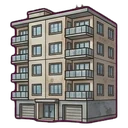
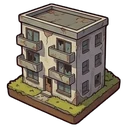
Icônes peintes des 25 lieux et des 3 maisons de départ

diff --git a/data.js b/data.js
@@ -10,7 +10,7 @@ function icone(id){ return typeof ICONES_SVG !== "undefined" && (ICONES_SVG[id] 
 // Pareil pour les membres de la famille (les recrues gardent leur emoji) et les zombies
 var ICONE_MEMBRE = { "Papa":"papa", "Maman":"maman", "Léo":"leo", "Emma":"emma", "Sam":"sam", "Nora":"nora", "Inès":"ines", "Yanis":"yanis" };
 // Icône dessinée k si elle existe, sinon l'emoji donné
-function ic(k, emoji){ if(typeof ICONES_SVG !== "undefined" && PORTRAITS_PNJ[k]) return portraitPNJ(k); return typeof ICONES_SVG !== "undefined" && ICONES_SVG[k] ? svgIcone(k) : emoji; }
+function ic(k, emoji){ if(typeof ICONES_SVG !== "undefined" && PORTRAITS_PNJ[k]) return portraitPNJ(k); return typeof ICONES_SVG !== "undefined" && (ICONES_SVG[k] || ICONES_IMG[k]) ? svgIcone(k) : emoji; }
 // Portraits peints des zombies et de Marco (Gemini, 2026-11-09)
 var PORTRAITS_PNJ = { pilleur:"images/portrait-pilleur.webp", couveuse:"images/portrait-couveuse.webp", brule:"images/portrait-brule.webp", gorille:"images/portrait-gorille.webp", mariee:"images/portrait-mariee.webp", pompier:"images/portrait-pompier.webp", boucher:"images/portrait-boucher.webp", colosse:"images/portrait-colosse.webp", rodeur:"images/portrait-rodeur.webp", coureur:"images/portrait-coureur.webp", costaud:"images/portrait-costaud.webp", marco:"images/portrait-marco.webp",
   defenseur:"images/portrait-pillard.webp", rampant:"images/portrait-rampant.webp", hurleur:"images/portrait-hurleur.webp", gonfle:"images/portrait-gonfle.webp", soldat:"images/portrait-soldat.webp" };
@@ -22,7 +22,8 @@ function portraitPNJ(k){ return '<span class="portrait pnj"><img src="' + PORTRA
 var ICONE_LIEU = { "Maison voisine":"lieuMaison", "Rue des pavillons":"lieuRue", "Supermarché":"lieuSuper", "Hôpital":"lieuHopital",
   "Quincaillerie":"lieuQuinc", "Station-service":"lieuStation", "Garage auto":"lieuGarage", "Commissariat":"lieuPolice",
   "Zone industrielle":"lieuIndus", "Étang":"lieuEtang", "Centre commercial":"lieuCentre", "Village voisin":"lieuVillage", "École Jules-Ferry":"lieuEcole", "Caserne des pompiers":"lieuCaserne", "Péniche du canal":"lieuPeniche",
-  "Camping des Pins":"lieuCamping", "Clinique vétérinaire":"lieuClinique", "Bunker du survivaliste":"lieuBunker", "Entrepôt logistique":"lieuEntrepot", "Base militaire":"lieuBase" };
+  "Camping des Pins":"lieuCamping", "Clinique vétérinaire":"lieuClinique", "Bunker du survivaliste":"lieuBunker", "Entrepôt logistique":"lieuEntrepot", "Base militaire":"lieuBase",
+  "Forêt":"lieuForet", "Zoo abandonné":"lieuZoo", "Aéroport":"lieuAeroport", "Prison":"lieuPrison", "Centrale électrique":"lieuCentrale" };
 var ICONE_MAISON = { "Pavillon":"maisonPavillon", "Ferme":"maisonFerme", "Appart":"maisonAppart" };
 function iconeLieu(L){ return ic(ICONE_LIEU[L.nom], L.icone); }
 // Illustrations peintes des lieux (Gemini, grilles de 4 découpées) : images/lieux/<nom>.webp

diff --git a/site/data.js b/site/data.js
@@ -10,7 +10,7 @@ function icone(id){ return typeof ICONES_SVG !== "undefined" && (ICONES_SVG[id] 
 // Pareil pour les membres de la famille (les recrues gardent leur emoji) et les zombies
 var ICONE_MEMBRE = { "Papa":"papa", "Maman":"maman", "Léo":"leo", "Emma":"emma", "Sam":"sam", "Nora":"nora", "Inès":"ines", "Yanis":"yanis" };
 // Icône dessinée k si elle existe, sinon l'emoji donné
-function ic(k, emoji){ if(typeof ICONES_SVG !== "undefined" && PORTRAITS_PNJ[k]) return portraitPNJ(k); return typeof ICONES_SVG !== "undefined" && ICONES_SVG[k] ? svgIcone(k) : emoji; }
+function ic(k, emoji){ if(typeof ICONES_SVG !== "undefined" && PORTRAITS_PNJ[k]) return portraitPNJ(k); return typeof ICONES_SVG !== "undefined" && (ICONES_SVG[k] || ICONES_IMG[k]) ? svgIcone(k) : emoji; }
 // Portraits peints des zombies et de Marco (Gemini, 2026-11-09)
 var PORTRAITS_PNJ = { pilleur:"images/portrait-pilleur.webp", couveuse:"images/portrait-couveuse.webp", brule:"images/portrait-brule.webp", gorille:"images/portrait-gorille.webp", mariee:"images/portrait-mariee.webp", pompier:"images/portrait-pompier.webp", boucher:"images/portrait-boucher.webp", colosse:"images/portrait-colosse.webp", rodeur:"images/portrait-rodeur.webp", coureur:"images/portrait-coureur.webp", costaud:"images/portrait-costaud.webp", marco:"images/portrait-marco.webp",
   defenseur:"images/portrait-pillard.webp", rampant:"images/portrait-rampant.webp", hurleur:"images/portrait-hurleur.webp", gonfle:"images/portrait-gonfle.webp", soldat:"images/portrait-soldat.webp" };
@@ -22,7 +22,8 @@ function portraitPNJ(k){ return '<span class="portrait pnj"><img src="' + PORTRA
 var ICONE_LIEU = { "Maison voisine":"lieuMaison", "Rue des pavillons":"lieuRue", "Supermarché":"lieuSuper", "Hôpital":"lieuHopital",
   "Quincaillerie":"lieuQuinc", "Station-service":"lieuStation", "Garage auto":"lieuGarage", "Commissariat":"lieuPolice",
   "Zone industrielle":"lieuIndus", "Étang":"lieuEtang", "Centre commercial":"lieuCentre", "Village voisin":"lieuVillage", "École Jules-Ferry":"lieuEcole", "Caserne des pompiers":"lieuCaserne", "Péniche du canal":"lieuPeniche",
-  "Camping des Pins":"lieuCamping", "Clinique vétérinaire":"lieuClinique", "Bunker du survivaliste":"lieuBunker", "Entrepôt logistique":"lieuEntrepot", "Base militaire":"lieuBase" };
+  "Camping des Pins":"lieuCamping", "Clinique vétérinaire":"lieuClinique", "Bunker du survivaliste":"lieuBunker", "Entrepôt logistique":"lieuEntrepot", "Base militaire":"lieuBase",
+  "Forêt":"lieuForet", "Zoo abandonné":"lieuZoo", "Aéroport":"lieuAeroport", "Prison":"lieuPrison", "Centrale électrique":"lieuCentrale" };
 var ICONE_MAISON = { "Pavillon":"maisonPavillon", "Ferme":"maisonFerme", "Appart":"maisonAppart" };
 function iconeLieu(L){ return ic(ICONE_LIEU[L.nom], L.icone); }
 // Illustrations peintes des lieux (Gemini, grilles de 4 découpées) : images/lieux/<nom>.webp

diff --git a/icones.js b/icones.js
@@ -688,7 +688,10 @@ var ICONES_IMG = {};
  "carte silhouette de course sapin sommeil ampoule sonHaut musique vibreur bulle cle porte megaphone froid folie " +
  "cuisinier globe automne printemps soleil sablier chrono tele copier partager signaler trombone merci poigneeMain ruine poubelle " +
  "pouce salut pause rejouer maillot tampon " +
- "cleMolette siphon menu plus etoilePleine etoileVide tigre cocktail").split(" ").forEach(function(k){ ICONES_IMG[k] = true; });
+ "cleMolette siphon menu plus etoilePleine etoileVide tigre cocktail " +
+ // Lieux peints (2026-11-14, 2 planches Gemini) : remplacent les dessins en code des lieux
+ "lieuMaison lieuRue lieuSuper lieuHopital lieuQuinc lieuStation lieuEtang lieuGarage lieuPolice lieuIndus lieuCentre lieuVillage lieuEntrepot lieuBase lieuEcole lieuCaserne " +
+ "lieuPeniche lieuCamping lieuClinique lieuBunker lieuForet lieuZoo lieuAeroport lieuPrison lieuCentrale").split(" ").forEach(function(k){ ICONES_IMG[k] = true; });
 function svgIcone(id){
   if(ICONES_IMG[id]) return '<img class="ico ico-img" src="images/icones/' + id + '.webp" alt="" draggable="false" decoding="async">';
   return '<svg class="ico" viewBox="0 0 48 48" aria-hidden="true"><g fill="none" stroke="' + COUL.trait + '" stroke-width="2.5" stroke-linejoin="round" stroke-linecap="round">' + ICONES_SVG[id] + '</g></svg>';

diff --git a/site/icones.js b/site/icones.js
@@ -688,7 +688,10 @@ var ICONES_IMG = {};
  "carte silhouette de course sapin sommeil ampoule sonHaut musique vibreur bulle cle porte megaphone froid folie " +
  "cuisinier globe automne printemps soleil sablier chrono tele copier partager signaler trombone merci poigneeMain ruine poubelle " +
  "pouce salut pause rejouer maillot tampon " +
- "cleMolette siphon menu plus etoilePleine etoileVide tigre cocktail").split(" ").forEach(function(k){ ICONES_IMG[k] = true; });
+ "cleMolette siphon menu plus etoilePleine etoileVide tigre cocktail " +
+ // Lieux peints (2026-11-14, 2 planches Gemini) : remplacent les dessins en code des lieux
+ "lieuMaison lieuRue lieuSuper lieuHopital lieuQuinc lieuStation lieuEtang lieuGarage lieuPolice lieuIndus lieuCentre lieuVillage lieuEntrepot lieuBase lieuEcole lieuCaserne " +
+ "lieuPeniche lieuCamping lieuClinique lieuBunker lieuForet lieuZoo lieuAeroport lieuPrison lieuCentrale").split(" ").forEach(function(k){ ICONES_IMG[k] = true; });
 function svgIcone(id){
   if(ICONES_IMG[id]) return '<img class="ico ico-img" src="images/icones/' + id + '.webp" alt="" draggable="false" decoding="async">';
   return '<svg class="ico" viewBox="0 0 48 48" aria-hidden="true"><g fill="none" stroke="' + COUL.trait + '" stroke-width="2.5" stroke-linejoin="round" stroke-linecap="round">' + ICONES_SVG[id] + '</g></svg>';

diff --git a/site/sw.js b/site/sw.js
@@ -4,7 +4,7 @@
    IMPORTANT : à chaque mise à jour du jeu, changer VERSION (sinon les
    téléphones garderaient l'ancienne copie).
    ===================================================================== */
-var VERSION = "survival-20261114-1320";
+var VERSION = "survival-20261114-1329";
 var FICHIERS = [
   "./",
   "index.html",

diff --git a/CLAUDE.md b/CLAUDE.md
@@ -440,6 +440,7 @@ Pièces sans lampe au plafond (2026-11-14, retour de Fabien : les lampes à pét
 Peluche d’Emma rangée sur le dressing (2026-11-14, idée de Fabien : Emma morte, la peluche avait une étiquette mais pas d’image) : `pelucheRangee()` (piece.js) = Emma n’est plus là OU Léo dort dans ce lit → la peluche et sa zone passent sur l’étagère du dressing (783, 376, 823, 433), sinon elle reste sur le lit. Avant, quand Léo dormait, l’image disparaissait mais l’étiquette restait
 Historique des guerres (2026-11-14, demande de Fabien) : le serveur garde dans chaque clan un résumé de ses 20 dernières guerres (`c.histoG`, `resumeGuerreClan` : date de fin, clan adverse et blason, étoiles des deux camps, résultat, trophées), rempli par `cloreGuerres` et repris des guerres encore en mémoire la première fois ; l’action `guerre` le renvoie (`histo`). Jeu : `blocHistoGuerres` en bas de la fenêtre « La guerre » (bilan gagnées / perdues / égalités en pastilles, une carte par guerre dorée ou rouge) ; l’ancienne ligne « Bilan du clan » est retirée. Guide « Les clans » à jour
 Lieux et zombies de fin de partie (2026-11-14, idée validée par Fabien ; propositions et prompts dans `images/sources/prompts-gemini-2026-11-14.md`) : 4 lieux secrets ajoutés à la fin de `LIEUX` (`LIEUX.push`, migration automatique) : Zoo abandonné (jour 50, à pied, `gorille` 0,35 = chance d’un Gorille), Aéroport (65, voiture, beaucoup de jerricans), Prison (75, sombre et verrouillée, armes et équipement de guerre), Centrale électrique (85, voiture). Champ `zombies` d’un lieu = poids en plus dans `tirerZombie` (prison : Costauds et Soldats, centrale : Couveuses). Images `images/lieux/zoo|aeroport|prison|centrale.webp` (Gemini). 4 zombies à la fin de `ZOMBIES`, jamais dans un assaut ni dans le raid (`horsGuerre`) : Pilleur (jour 30, intention « vole » : 2 objets en moins au butin, puis « fuit » au tour suivant : `z.vol`, `z.fui`, `butinVole` dans `finExpedition` ; l’abattre avant rend tout), Couveuse (jour 45, ne mord pas, « pond » un Rampant un tour sur deux, 3 au plus, cocktail ×2), Brûlé (jour 55, insensible au cocktail, brûle de 2 PV qui le frappe au corps à corps) et Gorille (zoo seulement, frappe deux personnes : `z.int.c2`). `texteIntention(z)` donne la bulle et la phrase du panneau. Images en pied détourées le même jour pour les 4 (`images/zombies/pilleur|couveuse|brule|gorille.webp`, sources `images/sources/zombie-*-gemini.*`) ; Couveuse et Gorille en 64 cqh. Portraits reçus le même jour (grille 2 × 2, source `images/sources/portraits-fin-partie-gemini.jpg`) : `images/portrait-pilleur|couveuse|brule|gorille.webp` (256 px), dans `PORTRAITS_PNJ`. Un zombie sans portrait montre le haut de son image en pied (`iconeZombie`, `.portrait.pnj.sprite-p`). Un zombie avec `attente:true` reste caché du jeu et du guide (plus utilisé pour l’instant). Le Pilleur qui s’enfuit sort de la scène (`.zc.fui.part`). Simulation : bon joueur 112 jours au lieu de 107 (90 % ≤ 148 au lieu de 132), moyen 41 au lieu de 38 ; avec Brûlé et Gorille, bon 106. Guide (« Le monde bouge ») et vitrine à jour
+Icônes peintes des lieux (2026-11-14, prompts `images/sources/prompts-icones-lieux.md`, planches `images/sources/icones-lieux-1|2-gemini.jpg`, détourées sur fond magenta) : les 25 lieux en petits dioramas (`images/icones/lieu<Nom>.webp`, ajoutés à `ICONES_IMG`) et les 3 maisons de départ (`maisonPavillon|Ferme|Appart.webp` remplacées). `ICONE_LIEU` complété (Forêt, Zoo, Aéroport, Prison, Centrale) ; `ic()` accepte maintenant aussi une icône peinte sans dessin en code
 Décor des assauts : la cour fortifiée (`piece-bastion-cour.webp`) sert de fond au combat pendant un assaut (ui.js, `openCombat`).
 Bilan de difficulté (2026-11-10, simulation après tous les ajouts) : Malin vit 85 jours (médiane, 10 % ≤ 68, 90 % ≤ 104, max 122), 96 % atteignent le jour 60, 79 % le jour 75, seulement 16 % le jour 100 ; Naïf 10 jours (1re mort au jour 5). Causes de mort de Malin : attaques de nuit, puis soif, puis faim. Assauts (2 membres, robot Auto, 200 essais) : bastion faible = 100 % de victoires ; remparts 5 + armurerie 3 + cible au jour 200 = 0 % (7 % avec gilets, casques, boucliers et camion au maximum) : courbe trop raide, à lisser. Jour d'accès aux clans : 100 jugé trop long.
 Réglages du 2026-11-10 (choix de Fabien : 30 jours) :

diff --git a/images/sources/prompts-icones-lieux.md b/images/sources/prompts-icones-lieux.md
@@ -1,0 +1,48 @@
+# Prompts Gemini : icônes peintes des lieux et des maisons (2026-11-14)
+
+Elles remplaceront les petites icônes dessinées en code des lieux (et les emojis des 4 nouveaux lieux), comme les planches d'objets l'ont fait pour les objets.
+2 images à demander dans la MÊME conversation Gemini. Si possible, la même conversation que les planches d'icônes d'objets.
+Joindre au premier message, comme référence de style : `images/icones/hache.webp`, `images/icones/trousse.webp` (deux icônes d'objets déjà faites) et `images/lieux/hopital.webp`.
+Après chaque image, vérifier : le bon nombre de cases, dans le bon ordre, fond magenta uni, aucun texte, aucune marque.
+
+---
+
+## Prompt 1 (style + planche 1 : 16 lieux)
+
+Crée une planche d'icônes de lieux pour un jeu mobile de survie post-apocalyptique, dans le même style que les icônes d'objets jointes : dessin cartoon peint, couleurs chaudes un peu usées, contour brun foncé épais et net, léger volume et lumière venant du haut à gauche, très lisible même en tout petit. Chaque icône montre UN bâtiment ou UN lieu reconnaissable, en petit diorama vu de trois quarts, posé sur un petit socle de terre et d'herbe, un peu abîmé et abandonné (vitres cassées, planches, végétation), sans personnage.
+
+Format carré 1:1. Grille régulière de 4 colonnes × 4 rangées = 16 cases de même taille. Une seule icône par case, centrée, qui occupe environ 75 % de la case avec une marge vide tout autour (rien ne touche ni ne dépasse sur une case voisine). Fond magenta pur uni (#FF00FF) partout, sans dégradé, sans ombre portée sur le fond. Aucun trait de grille, aucun cadre, aucun texte, aucune lettre, aucun chiffre, aucune marque ni logo réel (les enseignes restent vides).
+
+Ordre des cases, de gauche à droite puis de haut en bas :
+1. maison voisine (petite maison de banlieue, porte entrouverte)
+2. rue des pavillons (deux petites maisons côte à côte et un bout de trottoir)
+3. supermarché (bâtiment large avec chariot renversé devant)
+4. hôpital (bâtiment blanc avec une croix rouge)
+5. quincaillerie (petite boutique avec une grosse clé à molette en enseigne)
+6. station-service (pompe à essence et petit auvent, sans marque)
+7. étang (petit étang avec roseaux et un ponton en bois)
+8. garage auto (atelier avec porte basculante et un pneu)
+9. commissariat (bâtiment avec gyrophare bleu sur le toit)
+10. zone industrielle (hangar en tôle avec une cheminée)
+11. centre commercial (grand bâtiment vitré avec escalator visible)
+12. village voisin (clocher d'église et deux maisons)
+13. entrepôt logistique (hangar avec quai de chargement et caisses)
+14. base militaire (tente kaki, sacs de sable et barbelés)
+15. école (bâtiment avec horloge au fronton et préau)
+16. caserne des pompiers (bâtiment rouge avec grande porte et tuyau enroulé)
+
+## Prompt 2 (planche 2 : 9 lieux et 3 maisons de départ)
+
+Même style, même fond magenta uni, même socle de terre, sans texte ni trait. Grille de 4 colonnes × 3 rangées = 12 cases (format paysage 4:3) :
+1. péniche du canal (péniche amarrée sur un bout de canal)
+2. camping des Pins (tente et caravane sous un pin)
+3. clinique vétérinaire (petit bâtiment avec une empreinte de patte en enseigne)
+4. bunker du survivaliste (porte blindée ronde dans une butte de terre)
+5. forêt (trois sapins serrés et une souche avec une hache plantée)
+6. zoo abandonné (portail en fer forgé rouillé avec une arche en bois et une grille d'enclos)
+7. aéroport (petit avion de ligne et tour de contrôle)
+8. prison (haut mur gris avec mirador et barbelés)
+9. centrale électrique (transformateur rouillé et pylône électrique)
+10. pavillon (maison de famille avec jardin et clôture blanche)
+11. ferme (grange rouge et botte de foin)
+12. appartement (petit immeuble de trois étages avec balcons)
